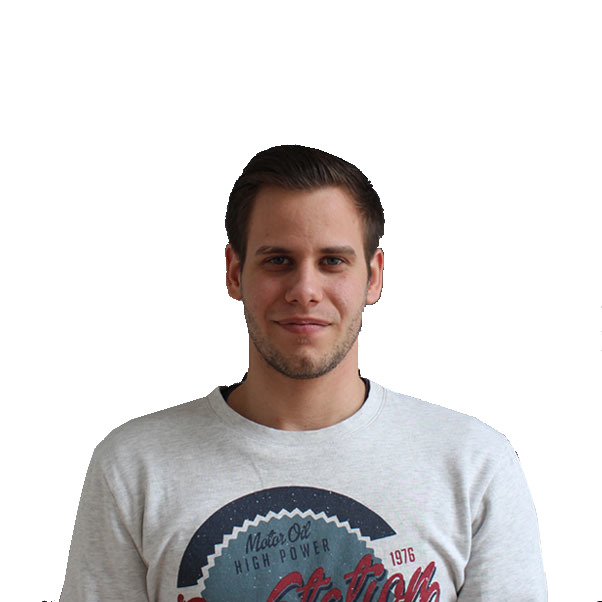
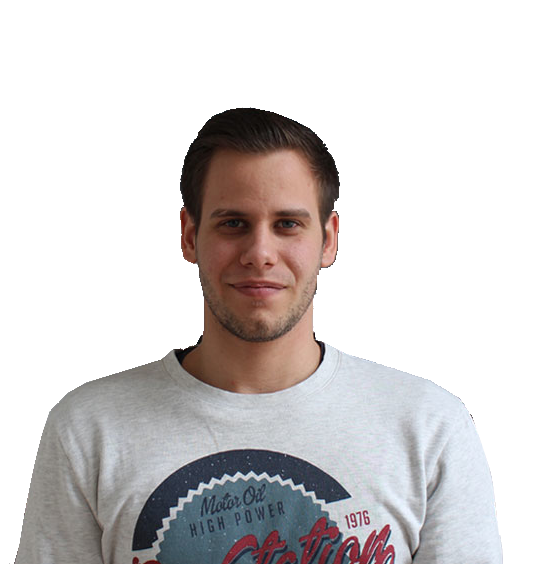
images

diff --git a/js/team.js b/js/team.js
@@ -9,10 +9,10 @@
     var print2 = document.getElementById("card2");
     var print3 = document.getElementById("card3"); 
 console.log(teamMember0);   
-	print0.innerHTML = "</br>" + "<b>" + teamMember0.name + "</b>" +"</br>" + "<i>" + teamMember0.position + "</i>" + "</br>" + "Location: " + teamMember0.region + "</br>" + teamMember0.mail;
-    print1.innerHTML = "</br>" + "<b>" + teamMember1.name + "</b>" + "</br>" + "<i>" + teamMember1.position + "</i>" + "</br>" + "Location: " + teamMember1.region + "</br>" + teamMember1.mail;
-    print2.innerHTML = "</br>" + "<b>" + teamMember2.name + "</b>" + "</br>" + "<i>" + teamMember2.position + "</i>" + "</br>" + "Location: " + teamMember2.region + "</br>" + teamMember2.mail;
-    print3.innerHTML = "</br>" + "<b>" + teamMember3.name + "</b>" + "</br>" + "<i>" + teamMember3.position + "</i>" + "</br>" + "Location: " + teamMember3.region + "</br>" + teamMember3.mail;
+	print0.innerHTML = "<b>" + teamMember0.name + "</b>" +"</br>" + "<i>" + teamMember0.position + "</i>" + "</br>" + "Location: " + teamMember0.region + "</br>" + teamMember0.mail;
+    print1.innerHTML = "<b>" + teamMember1.name + "</b>" + "</br>" + "<i>" + teamMember1.position + "</i>" + "</br>" + "Location: " + teamMember1.region + "</br>" + teamMember1.mail;
+    print2.innerHTML = "<b>" + teamMember2.name + "</b>" + "</br>" + "<i>" + teamMember2.position + "</i>" + "</br>" + "Location: " + teamMember2.region + "</br>" + teamMember2.mail;
+    print3.innerHTML = "<b>" + teamMember3.name + "</b>" + "</br>" + "<i>" + teamMember3.position + "</i>" + "</br>" + "Location: " + teamMember3.region + "</br>" + teamMember3.mail;
 
 
 

diff --git a/aboutus.html b/aboutus.html
@@ -40,16 +40,16 @@
      <div class="content-elements" id="content-top-3">
             <section class="card">
             
-                <div class="card--content" id="card0"> 
+                <div class="card--content" id="card0" style="background-image: url(img/denis.png)"> 
                 
                 </div>
-                <div class="card--content" id="card1">
+                <div class="card--content" id="card1" style="background-image: url(img/dominik.png)">
                 
                 </div>
-                <div class="card--content" id="card2">
+                <div class="card--content" id="card2" style="background-image: url(img/saad.png)">
                 
                 </div>
-                <div class="card--content" id="card3">
+                <div class="card--content" id="card3" style="background-image: url(img/anna.png)">
                     
 
                 </div>

diff --git a/sass/about.sass b/sass/about.sass
@@ -47,7 +47,7 @@ body
 .content > div  
 	flex: 1 1 auto
 	text-align: center
-	height: 500px
+	height: 600px
 	margin: 30px 0px
 	@extend .borderContentCenter
 	@extend .shadowBase

diff --git a/css/about.css b/css/about.css
@@ -236,7 +236,7 @@ body {
 .content > div {
   flex: 1 1 auto;
   text-align: center;
-  height: 500px;
+  height: 600px;
   margin: 30px 0px;
   float: left; }
 
